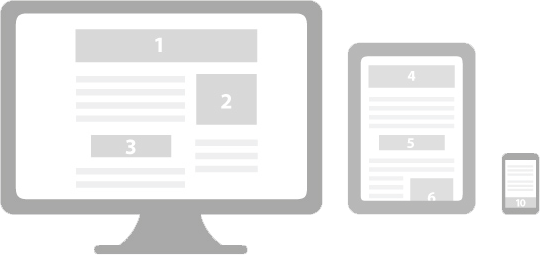
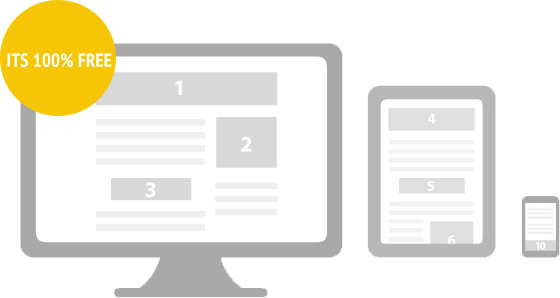
Units was corrected

diff --git a/index.html b/index.html
@@ -38,8 +38,7 @@
                 </div>
             </div>
             <div class='player-section__header asapFont'>
-                <span>the cool</span>
-                <span>the minimal</span>
+                the cool<span>the minimal</span>
             </div>
         </div>
     </section>
@@ -56,7 +55,7 @@
             <div class="main-part__body">
                 <div class="poster main-part__poster">
                     <div class='poster__text encodeFont'>
-                            Lorem ipsum dolor sit amet, consectetur adipisicing elit, sed do eiusmod tempor incididunt
+                            Lorem ipsum dolor sit amet, consectetur adipisicing elit
                     </div> 
                     <div class='poster__video-container'>
                         <video class='poster__video' controls poster="https://html5book.ru/wp-content/themes/papercuts/video/martynko.png">
@@ -79,7 +78,6 @@
             <h1 class="devices-part__header ptSansFont">lorem ipsum dolor sit amet</h1>
             <div class="devices-part__body">
                 <div class="devices-part__devices">
-                    <div class="devices-part__ellipse"><div class="ellipse"></div></div>
                     <img src="./img/Devices.png" alt="devices" class="devices">
                 </div>
                 <div class="devices-part__list">

diff --git a/css/blocks/devices-part.css b/css/blocks/devices-part.css
@@ -5,15 +5,16 @@
 .devices-part__header {
     color: #f5c506;
     text-transform: uppercase;
-    font-size: 39px;
+    font-size: 3.9rem;
     line-height: 1.2;
     text-align: center;
-    padding: 1em;
+    padding: 45px 0;
 }
 
 .devices-part__body {
     display: flex;
     margin: 0 50px;
+    padding-bottom: 50px;
 }
 
 .devices-part__list {
@@ -26,25 +27,15 @@
     margin: auto;
 }
 
-.devices-part__ellipse {
-    position: absolute;
-    left: -6%;
-    top: -15%;
-}
-
-.devices-part__body {
-    padding: 25px 0 50px 0;
-}
-
 @media (max-width: 540px) {
     .devices-part__header {
-        font-size: 30px;
+        font-size: 3rem;
     }
 }
 
 @media (max-width: 440px) {
     .devices-part__header {
-        font-size: 23px;
+        font-size: 2.3rem;
     }
 }
 
@@ -58,17 +49,16 @@
         align-self: flex-end;
         display: block;
         height: 100%;
-        margin-left: auto;
-        padding-left: 3vw;
+        padding-left: 70px;
     }
 
     .devices-part__devices {
-        margin: 0;
         width: 50%;
     }
 
     .devices-part__header {
         font-size: 4.3rem;
+        padding: 50px 0 16px 0;
     }
 }
 

diff --git a/css/main.css b/css/main.css
@@ -16,7 +16,6 @@
 @import url('./blocks/twitter.css');
 @import url('./blocks/rectang.css');
 @import url('./blocks/devices-part.css');
-@import url('./blocks/ellipse.css');
 @import url('./blocks/list.css');
 @import url('./blocks/footer.css');
 
@@ -30,30 +29,19 @@
 .robotoCondensedFont {font-family: 'Roboto Condensed', sans-serif;}
 
 /* Общие стили */
-
+html {
+    font-size: 62.5%;
+}
 
 body {
     min-width: 375px;
 }
 
-/* Медиазапросы по шрифтам */
-
-@media (min-width: 992px) {
-    html {
-        font-size: 62.5%;
-    }
-
-    .container {
-        max-width: 1024px;
-        margin: auto;
-    }
+.container {
+    max-width: 1024px;
+    margin: auto;
 }
 
-@media (min-width: 640px) and (max-width: 992px) {
-    html {
-        font-size: calc(62.5% - 1.5px);
-    }
-}
 
 
 

diff --git a/css/blocks/menu.css b/css/blocks/menu.css
@@ -4,7 +4,7 @@
     flex: 1;
     height: 100%;
     background-color: #f3c306;
-    font-size: 14px;
+    font-size: 1.4rem;
     color: rgb(155, 125, 8);
     text-transform: uppercase;
     line-height: 1.2;
@@ -14,7 +14,7 @@
     opacity: 0.8;
     height: 100%;
     flex: 1;
-    border-right: 0.1em solid #9b7d08;
+    border-right: 1px solid #9b7d08;
     display: flex;
     justify-content: center;
     align-items: center;
@@ -46,6 +46,6 @@
         width: 454px;
         height: 42px;
         box-shadow: -5px -5px 2px rgb(214, 150, 30);
-        font-size: 17px;
+        font-size: 1.7rem;
     }
 }

diff --git a/css/blocks/logo.css b/css/blocks/logo.css
@@ -27,7 +27,7 @@
 }
 
 .logo__text {
-    font-size: 19px;
+    font-size: 1.9rem;
     color: rgb(255, 255, 255);
     text-transform: uppercase;
     line-height: 1.2;
@@ -54,17 +54,17 @@
     .logo__author {
         flex-shrink: 0;
         display: block;
-        font-size: 13px;
+        font-size: 1.3rem;
         color: white;
         text-transform: uppercase;
     } 
 
     .logo__text_header {
-      font-size: 41px;
+      font-size: 4.1rem;
     }
 
     .logo__text_footer {
-        font-size: 29px;
+        font-size: 2.9rem;
     }
 
     .logo__image_header {

diff --git a/css/blocks/poster.css b/css/blocks/poster.css
@@ -9,11 +9,11 @@
     background-color: #ec9e03;
     width: 50%;
     border-right: 9px solid white;
-    padding: 1em 2em 1em 1em;
+    padding: 27px;
     color: white;
     font-weight: 300;
     line-height: 1.308;
-    font-size: 29px;
+    font-size: 2.9rem;
     overflow: hidden;
 }
 
@@ -29,7 +29,7 @@
 
 @media (max-width: 540px) {
     .poster__text {
-        font-size: 23px;
+        font-size: 2.3rem;
     }
 }
 

diff --git a/css/blocks/middle-bar.css b/css/blocks/middle-bar.css
@@ -18,7 +18,7 @@
     align-items: center;
     height: 100%;
     color: black;
-    font-size: 23px;
+    font-size: 2.3rem;
     line-height: 1.2;
     text-transform: uppercase;
 }
@@ -32,7 +32,7 @@
 
 @media (max-width: 540px) {
     .middle-bar__item {
-        font-size: 17px;
+        font-size: 1.7rem;
     }
 }
 

diff --git a/css/blocks/main-part.css b/css/blocks/main-part.css
@@ -29,11 +29,10 @@
     .main-part__body {
         flex-direction: row;
         justify-content: space-between;
-        margin-right: -34px;
     }
 
     .main-part__twitter {
-        margin: 0 34px;
+        margin-left: 34px;
         max-width: 330px;
         flex-basis: 30%;
     }

diff --git a/css/blocks/player-section.css b/css/blocks/player-section.css
@@ -29,6 +29,7 @@
         flex-flow: column;
         justify-content: center;
         align-items: center;
+        text-align: center;
         text-transform: uppercase;
         letter-spacing: 1px;
         font-size: 6.3rem;

diff --git a/css/blocks/rectang.css b/css/blocks/rectang.css
@@ -6,5 +6,5 @@
     border-radius: 1em;
     position: relative;
     line-height: 1.5em;
-    font-size: 11px;
+    font-size: 1.1rem;
   }
